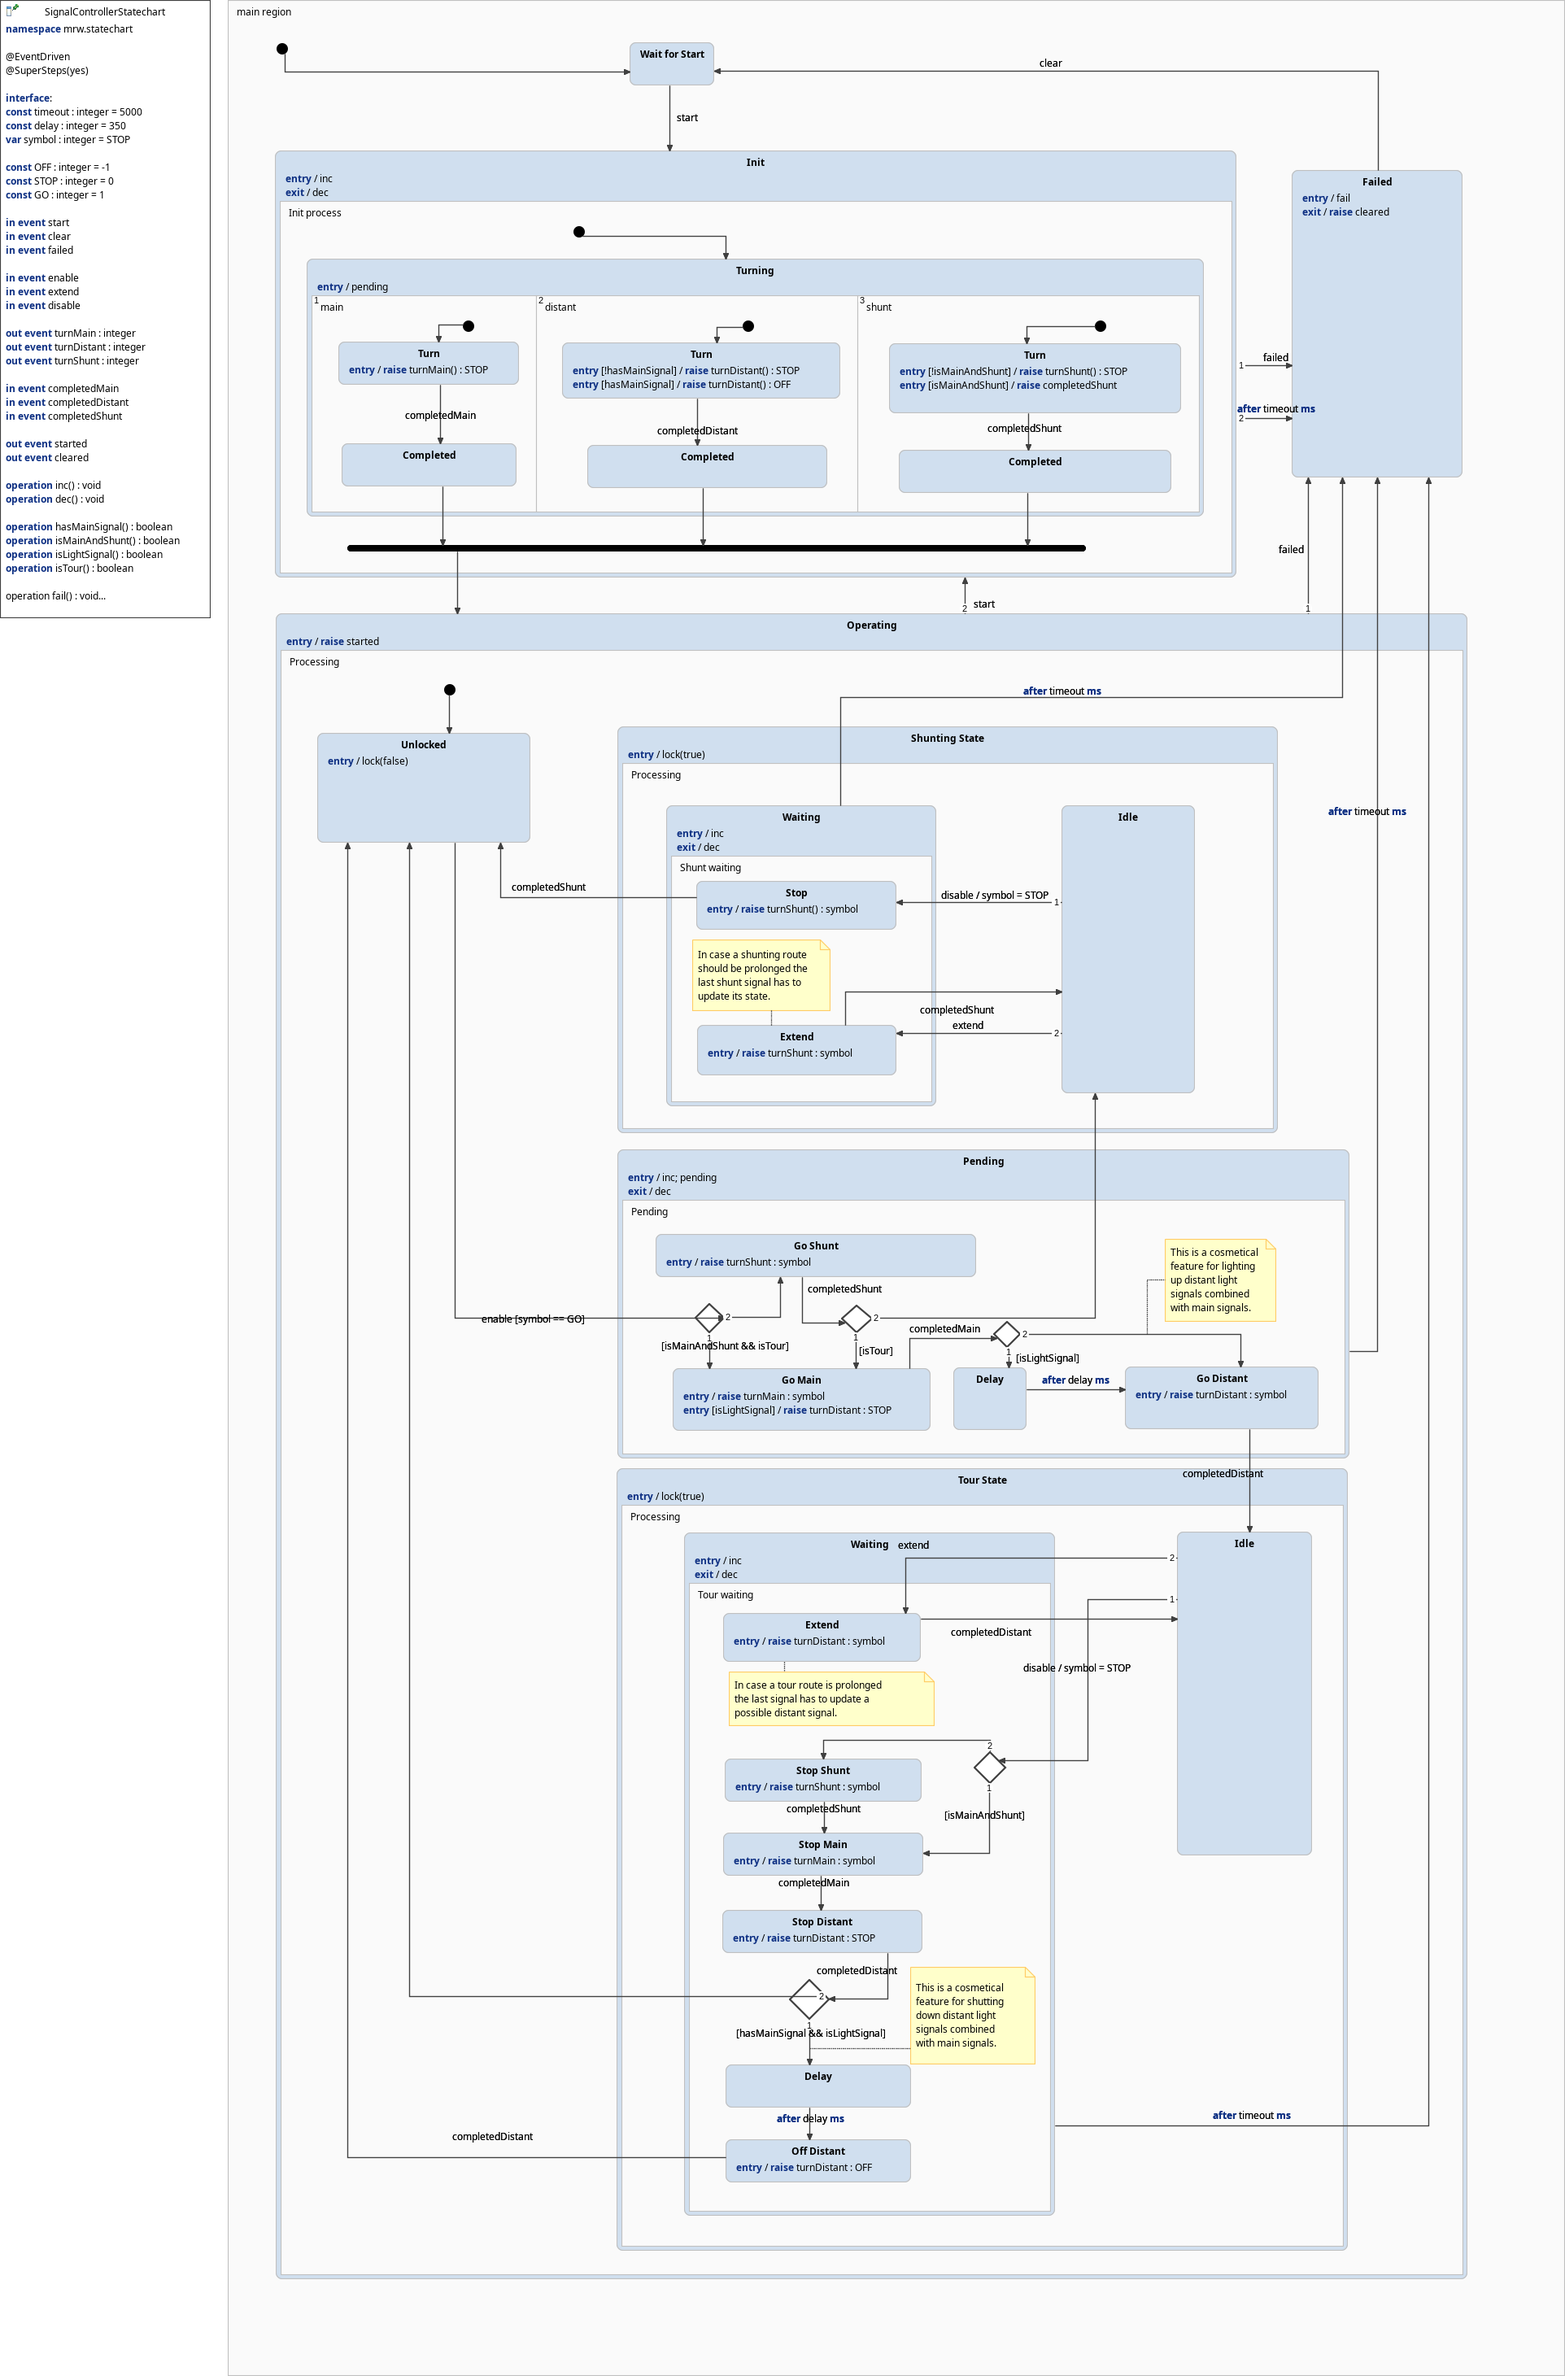
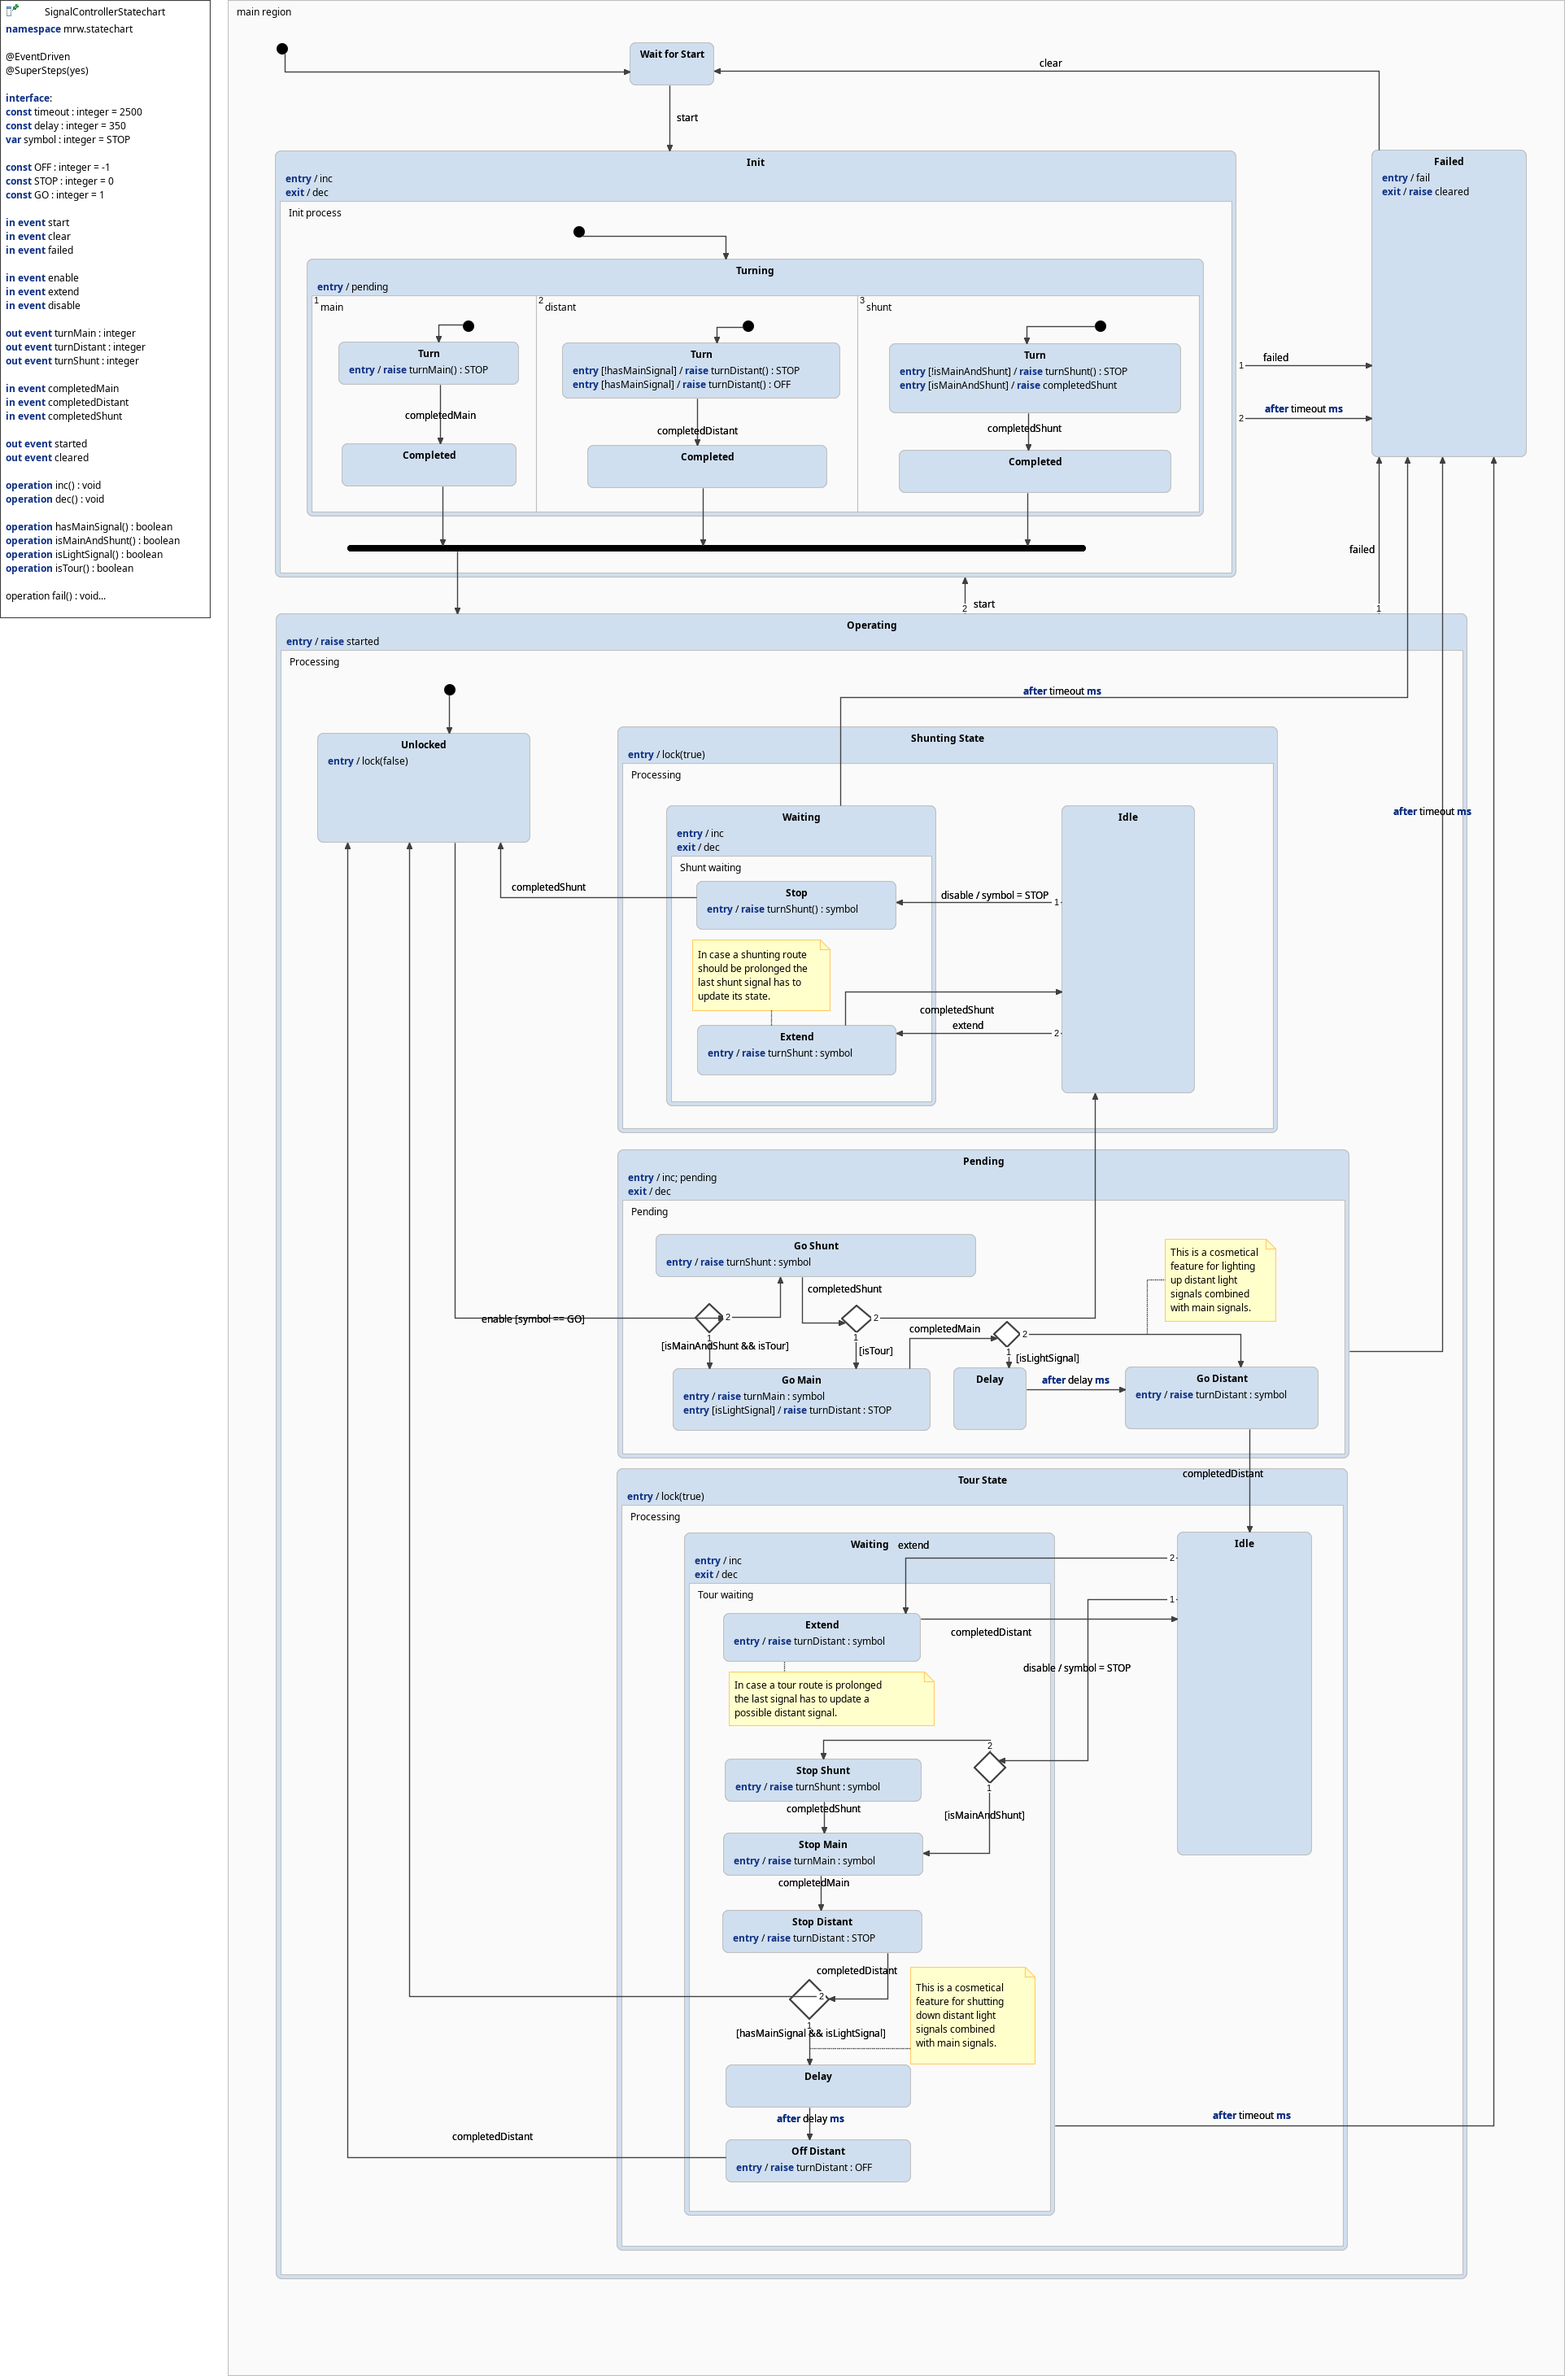
Corrected statemachine timeouts to same value.

Changed region(s): [[0.8108, 0.0623, 0.9979, 0.2804], [0.9044, 0.3115, 0.9356, 0.3738]]

diff --git a/statecharts/test/src-gen/SwitchStatechart.h b/statecharts/test/src-gen/SwitchStatechart.h
@@ -124,12 +124,12 @@ namespace mrw
 			bool isRaisedStop() noexcept;
 
 
+			/*! Gets the value of the variable 'timeout' that is defined in the default interface scope. */
+			static sc::integer getTimeout()  noexcept;
 			/*! Gets the value of the variable 'isManual' that is defined in the default interface scope. */
 			bool getIsManual() const noexcept;
 			/*! Sets the value of the variable 'isManual' that is defined in the default interface scope. */
 			void setIsManual(bool isManual) noexcept;
-			/*! Gets the value of the variable 'timeout' that is defined in the default interface scope. */
-			static sc::integer getTimeout()  noexcept;
 			//! Inner class for default interface scope operation callbacks.
 			class OperationCallback
 			{
@@ -230,8 +230,8 @@ namespace mrw
 			SwitchStatechart(const SwitchStatechart & rhs);
 			SwitchStatechart & operator=(const SwitchStatechart &);
 
+			static constexpr const sc::integer timeout {2500};
 			bool isManual {false};
-			static constexpr const sc::integer timeout {2000};
 
 
 

diff --git a/statecharts/SwitchStatechart.h b/statecharts/SwitchStatechart.h
@@ -104,12 +104,12 @@ namespace mrw
 			};
 
 
+			/*! Gets the value of the variable 'timeout' that is defined in the default interface scope. */
+			static sc::integer getTimeout()  noexcept;
 			/*! Gets the value of the variable 'isManual' that is defined in the default interface scope. */
 			bool getIsManual() const noexcept;
 			/*! Sets the value of the variable 'isManual' that is defined in the default interface scope. */
 			void setIsManual(bool isManual) noexcept;
-			/*! Gets the value of the variable 'timeout' that is defined in the default interface scope. */
-			static sc::integer getTimeout()  noexcept;
 			//! Inner class for default interface scope operation callbacks.
 			class OperationCallback
 			{
@@ -250,8 +250,8 @@ namespace mrw
 			SwitchStatechart(const SwitchStatechart & rhs);
 			SwitchStatechart & operator=(const SwitchStatechart &);
 
+			static constexpr const sc::integer timeout {2500};
 			bool isManual {false};
-			static constexpr const sc::integer timeout {2000};
 
 
 

diff --git a/statecharts/SwitchStatechart.cpp b/statecharts/SwitchStatechart.cpp
@@ -336,6 +336,12 @@ namespace mrw
 			}
 		}
 
+		sc::integer SwitchStatechart::getTimeout() noexcept
+		{
+			return timeout
+				;
+		}
+
 		bool SwitchStatechart::getIsManual() const noexcept
 		{
 			return isManual
@@ -346,12 +352,6 @@ namespace mrw
 		{
 			this->isManual = isManual_;
 		}
-		sc::integer SwitchStatechart::getTimeout() noexcept
-		{
-			return timeout
-				;
-		}
-
 		void SwitchStatechart::setOperationCallback(std::shared_ptr<OperationCallback> operationCallback) noexcept
 		{
 			ifaceOperationCallback = operationCallback;

diff --git a/statecharts/test/src-gen/SwitchStatechart.cpp b/statecharts/test/src-gen/SwitchStatechart.cpp
@@ -345,6 +345,12 @@ namespace mrw
 			}
 		}
 
+		sc::integer SwitchStatechart::getTimeout() noexcept
+		{
+			return timeout
+				;
+		}
+
 		bool SwitchStatechart::getIsManual() const noexcept
 		{
 			return isManual
@@ -355,12 +361,6 @@ namespace mrw
 		{
 			this->isManual = isManual_;
 		}
-		sc::integer SwitchStatechart::getTimeout() noexcept
-		{
-			return timeout
-				;
-		}
-
 		void SwitchStatechart::setOperationCallback(OperationCallback * operationCallback) noexcept
 		{
 			ifaceOperationCallback = operationCallback;

diff --git a/can/mrwbusservice.cpp b/can/mrwbusservice.cpp
@@ -119,14 +119,13 @@ bool MrwBusService::write(const MrwMessage & message) noexcept
 		if ((can_device->framesAvailable() > 0) ||
 			(can_device->framesToWrite() > 0))
 		{
+			qCDebug(log, "Process events...");
+
 			QCoreApplication::processEvents();
 		}
 
 		if (can_device->writeFrame(message))
 		{
-			static constexpr microseconds wait = 1ms;
-
-			QThread::usleep(wait.count());
 			return true;
 		}
 		else if (can_device->busStatus() == QCanBusDevice::CanBusStatus::Good)

diff --git a/statecharts/SignalControllerStatechart.h b/statecharts/SignalControllerStatechart.h
@@ -306,7 +306,7 @@ namespace mrw
 			SignalControllerStatechart(const SignalControllerStatechart & rhs);
 			SignalControllerStatechart & operator=(const SignalControllerStatechart &);
 
-			static constexpr const sc::integer timeout {5000};
+			static constexpr const sc::integer timeout {2500};
 			static constexpr const sc::integer delay {350};
 			sc::integer symbol {SignalControllerStatechart::STOP};
 			static constexpr const sc::integer OFF {-(1)};

diff --git a/statecharts/test/src-gen/SignalControllerStatechart.h b/statecharts/test/src-gen/SignalControllerStatechart.h
@@ -290,7 +290,7 @@ namespace mrw
 			SignalControllerStatechart(const SignalControllerStatechart & rhs);
 			SignalControllerStatechart & operator=(const SignalControllerStatechart &);
 
-			static constexpr const sc::integer timeout {5000};
+			static constexpr const sc::integer timeout {2500};
 			static constexpr const sc::integer delay {350};
 			sc::integer symbol {SignalControllerStatechart::STOP};
 			static constexpr const sc::integer OFF {-(1)};

diff --git a/statecharts/SectionStatechart.h b/statecharts/SectionStatechart.h
@@ -317,7 +317,7 @@ namespace mrw
 			SectionStatechart(const SectionStatechart & rhs);
 			SectionStatechart & operator=(const SectionStatechart &);
 
-			static constexpr const sc::integer timeout {600};
+			static constexpr const sc::integer timeout {2500};
 			bool auto_off {true};
 			bool auto_unlock {true};
 			bool occupied {false};

diff --git a/statecharts/test/src-gen/SectionStatechart.h b/statecharts/test/src-gen/SectionStatechart.h
@@ -293,7 +293,7 @@ namespace mrw
 			SectionStatechart(const SectionStatechart & rhs);
 			SectionStatechart & operator=(const SectionStatechart &);
 
-			static constexpr const sc::integer timeout {600};
+			static constexpr const sc::integer timeout {2500};
 			bool auto_off {true};
 			bool auto_unlock {true};
 			bool occupied {false};
